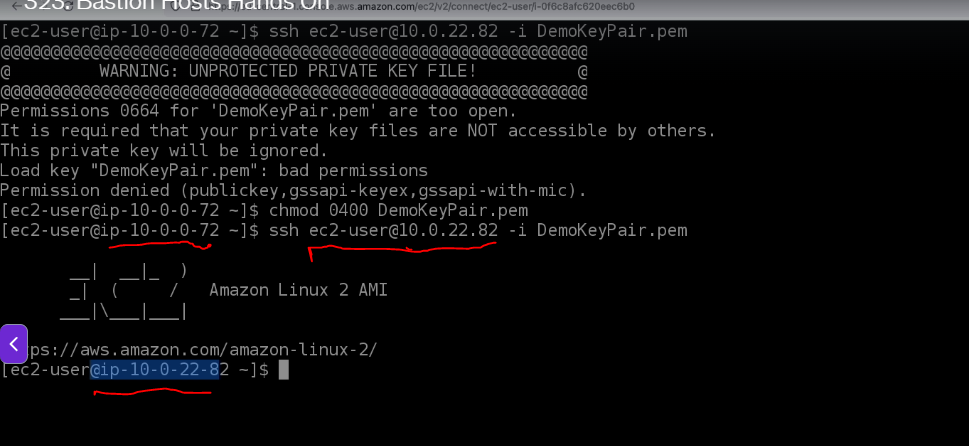
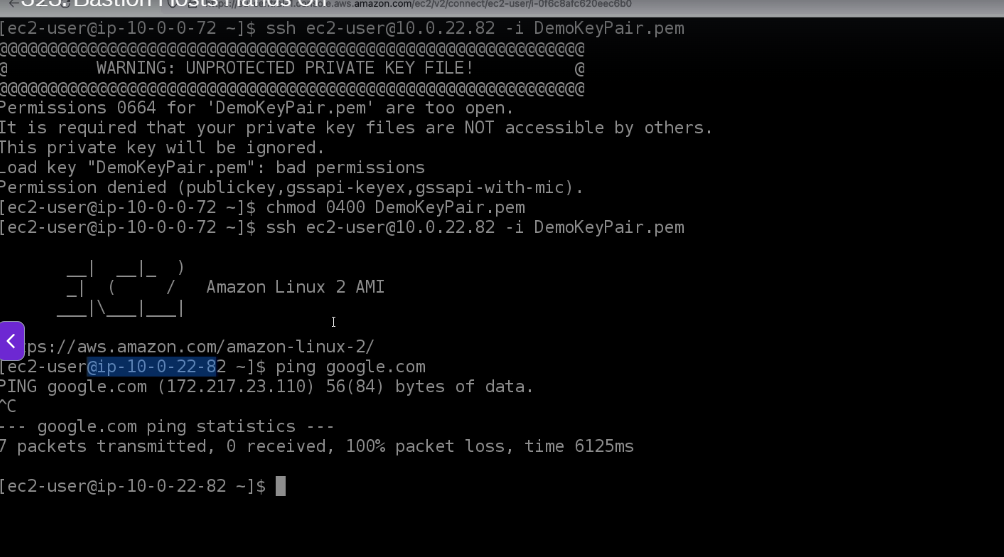
IAM

Changed region(s): [[0.0, 0.0, 1.0, 0.583], [0.0, 0.5538, 0.6502, 0.9036]]

diff --git a/AWS/VPC.md b/AWS/VPC.md
@@ -218,7 +218,19 @@
 1. We create BH in public subnet and 1 EC2 in private subnet
 2. Then we SSH into BH, and then from that BH, we SSH into the private EC2  
 ![alt text](PNG/BH1.PNG "Title")  
-- 10.0.0.72 is IP of BH and we SSH and 10.0.22.82 is IP of private EC2 
+- 10.0.0.72 is IP of BH and we SSH and 10.0.22.82 is IP of private EC2
+- So we can access private EC2 from BH, but still private EC2 cannot access internet - see in the image - the ping command failed
+- Soultion - use **NAT instances**   
+
+### NAT instances
+
+
+> [!NOTE]
+> # Summary
+>
+> - **Internet Gateway (IGW):** Enables **Internet connectivity** for resources in a **public subnet** (supports both inbound and outbound Internet traffic, provided the resource has a Public IP and security rules allow it).
+> - **Bastion Host:** Use Bastion Host to allow internet users to connect to resources inside private subnets
+> - **NAT Gateway:** Allows resources in **private subnets** to **initiate outbound Internet connections**, while **preventing inbound connections initiated from the Internet**.
 
 #### Now once VPC and subnets are configured, we can launch EC2 instances inside a specific VPC / subnets we created above  
 ![alt text](PNG/VPC13.PNG "Title")  
